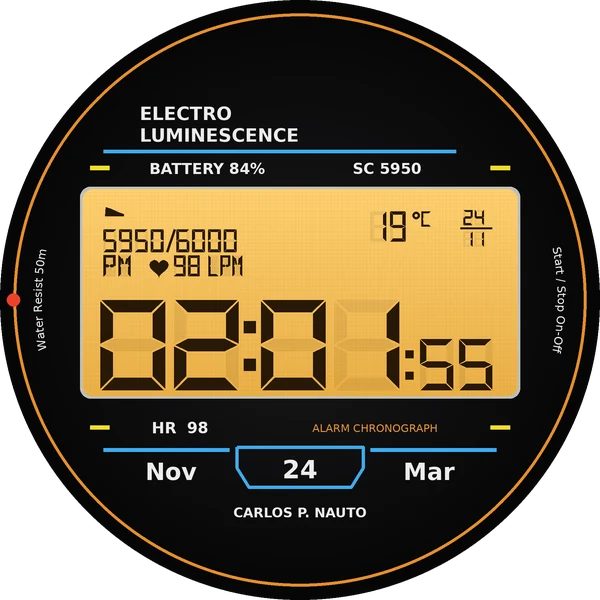
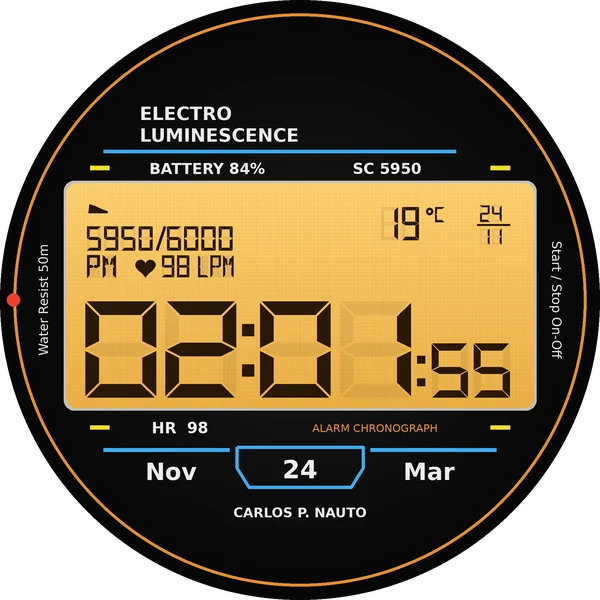
Electro: textos de los costados rectos y más visibles, pantalla más alta y más ancha con la hora más grande
Claude-Session: https://claude.ai/code/session_01RTdv2VrACuR4VFWJLA57hx

Changed region(s): [[0.06, 0.3, 0.96, 0.69]]

diff --git a/android/esferas-de-reloj/electro/src/main/java/cl/carlospnauto/esfera/FaceService.kt b/android/esferas-de-reloj/electro/src/main/java/cl/carlospnauto/esfera/FaceService.kt
@@ -228,7 +228,7 @@ class ElectroRenderer(
         val r = min(b.width(), b.height()) / 2f
         val cx = b.exactCenterX()
         val cy = b.exactCenterY()
-        return RectF(cx - 0.725f * r, cy - 0.37f * r, cx + 0.725f * r, cy + 0.32f * r)
+        return RectF(cx - 0.78f * r, cy - 0.39f * r, cx + 0.78f * r, cy + 0.36f * r)
     }
 
     private fun a(c: Int, alpha: Int) = Color.argb(alpha, Color.red(c), Color.green(c), Color.blue(c))
@@ -243,6 +243,14 @@ class ElectroRenderer(
         text.textScaleX = scaleX
         canvas.drawText(s, x, y, text)
         text.textScaleX = 1f
+    }
+
+    /** Texto recto girado (deg −90: se lee de abajo hacia arriba; 90: de arriba hacia abajo) */
+    private fun vertical(canvas: Canvas, s: String, x: Float, y: Float, deg: Float, size: Float, color: Int) {
+        canvas.save()
+        canvas.rotate(deg, x, y)
+        write(canvas, s, x, y + size * 0.35f, size, color, medium, Paint.Align.CENTER)
+        canvas.restore()
     }
 
     private fun arcText(canvas: Canvas, s: String, cx: Float, cy: Float, rad: Float, start: Float, sweep: Float, size: Float, color: Int) {
@@ -303,8 +311,9 @@ class ElectroRenderer(
             write(canvas, "SC ${steps ?: "--"}", X(0.29f), Y(-0.42f), r * 0.056f, white, bold, Paint.Align.CENTER, 1.05f)
 
             // Textos de los costados (siguen la curva)
-            arcText(canvas, "Water Resist 50m", cx, cy, r * 0.86f, 145f, 70f, r * 0.042f, white)
-            arcText(canvas, "Start / Stop On-Off", cx, cy, r * 0.86f, -35f, 70f, r * 0.042f, white)
+            // Textos de los costados, rectos (como la foto)
+            vertical(canvas, "Water Resist 50m", X(-0.855f), cy, -90f, r * 0.048f, white)
+            vertical(canvas, "Start / Stop On-Off", X(0.855f), cy, 90f, r * 0.048f, white)
 
             // ===== Abajo: ritmo, mes, día y la marca =====
             val hr = complications.textOf(HEART, context.resources)?.filter { it.isDigit() }?.takeIf { it.isNotEmpty() }
@@ -388,12 +397,12 @@ class ElectroRenderer(
         if (!simple) {
             // Línea de arriba: pasos con la meta, o el próximo evento
             if (Choices.value(context, TOPLINE) == 0) {
-                drawShoe(canvas, X(-0.62f), Y(0.075f), r * 0.03f, ink)
+                drawShoe(canvas, X(-0.675f), Y(0.085f), r * 0.03f, ink)
                 val steps = complications.textOf(STEPS, context.resources)?.filter { it.isDigit() } ?: "--"
                 val goal = Choices.value(context, GOAL).toString()
-                digits(canvas, "$steps/$goal", X(-0.655f), Y(0.135f), r * 0.042f, r * 0.075f, ink, ghost)
+                digits(canvas, "$steps/$goal", X(-0.71f), Y(0.145f), r * 0.046f, r * 0.08f, ink, ghost)
             } else {
-                drawCalendar(canvas, X(-0.62f), Y(0.075f), r * 0.03f, ink)
+                drawCalendar(canvas, X(-0.675f), Y(0.085f), r * 0.03f, ink)
                 val ev = complications.textOf(EVENT, context.resources)
                 val title = complications.titleOf(EVENT, context.resources)
                 val line = plain(when {
@@ -401,49 +410,49 @@ class ElectroRenderer(
                     title != null -> "$title $ev"
                     else -> ev
                 }).filter { it.isLetterOrDigit() || it == ' ' || it == ':' || it == '-' }.take(15)
-                Lcd.text14(canvas, line, X(-0.655f), Y(0.135f), r * 0.034f, r * 0.068f, r * 0.008f, ink, ghost)
+                Lcd.text14(canvas, line, X(-0.71f), Y(0.145f), r * 0.037f, r * 0.074f, r * 0.008f, ink, ghost)
             }
             // Clima y fecha a la derecha
             val temp = complications.textOf(WEATHER, context.resources)?.filter { it.isDigit() || it == '-' }?.takeIf { it.isNotEmpty() } ?: "--"
-            digits(canvas, temp.takeLast(3), X(0.235f), Y(0.075f), r * 0.052f, r * 0.10f, ink, ghost)
-            val tw = digitsWidth(temp.takeLast(3), r * 0.052f)
+            digits(canvas, temp.takeLast(3), X(0.27f), Y(0.08f), r * 0.056f, r * 0.11f, ink, ghost)
+            val tw = digitsWidth(temp.takeLast(3), r * 0.056f)
             stroke.color = ink
             stroke.strokeWidth = r * 0.008f
-            canvas.drawCircle(X(0.235f) + tw + r * 0.022f, Y(0.088f), r * 0.012f, stroke)
-            Lcd.text14(canvas, "C", X(0.235f) + tw + r * 0.04f, Y(0.075f), r * 0.03f, r * 0.05f, 0f, ink, 0)
+            canvas.drawCircle(X(0.27f) + tw + r * 0.022f, Y(0.095f), r * 0.012f, stroke)
+            Lcd.text14(canvas, "C", X(0.27f) + tw + r * 0.04f, Y(0.08f), r * 0.03f, r * 0.05f, 0f, ink, 0)
             val dd = "%02d".format(t.dayOfMonth)
             val mm = "%02d".format(t.monthValue)
-            digits(canvas, dd, X(0.545f), Y(0.07f), r * 0.03f, r * 0.05f, ink, ghost)
+            digits(canvas, dd, X(0.60f), Y(0.075f), r * 0.032f, r * 0.054f, ink, ghost)
             fill.color = ink
-            canvas.drawRect(X(0.535f), Y(0.128f), X(0.64f), Y(0.134f), fill)
-            digits(canvas, mm, X(0.545f), Y(0.142f), r * 0.03f, r * 0.05f, ink, ghost)
+            canvas.drawRect(X(0.59f), Y(0.137f), X(0.70f), Y(0.143f), fill)
+            digits(canvas, mm, X(0.60f), Y(0.152f), r * 0.032f, r * 0.054f, ink, ghost)
 
             // Segunda línea: AM/PM, corazón y ritmo
-            if (!is24) Lcd.text14(canvas, if (t.hour < 12) "AM" else "PM", X(-0.655f), Y(0.22f), r * 0.04f, r * 0.072f, r * 0.01f, ink, ghost)
-            drawHeart(canvas, X(-0.47f), Y(0.258f), r * 0.03f, ink)
+            if (!is24) Lcd.text14(canvas, if (t.hour < 12) "AM" else "PM", X(-0.71f), Y(0.24f), r * 0.043f, r * 0.076f, r * 0.01f, ink, ghost)
+            drawHeart(canvas, X(-0.515f), Y(0.278f), r * 0.032f, ink)
             val hr = complications.textOf(HEART, context.resources)?.filter { it.isDigit() }?.takeIf { it.isNotEmpty() }
                 ?: heart.bpm.takeIf { it > 0 }?.toString() ?: "--"
-            digits(canvas, hr, X(-0.42f), Y(0.222f), r * 0.038f, r * 0.068f, ink, ghost)
-            Lcd.text14(canvas, "LPM", X(-0.42f) + digitsWidth(hr, r * 0.038f) + r * 0.03f, Y(0.222f), r * 0.032f, r * 0.068f, r * 0.008f, ink, ghost)
+            digits(canvas, hr, X(-0.46f), Y(0.242f), r * 0.04f, r * 0.072f, ink, ghost)
+            Lcd.text14(canvas, "LPM", X(-0.46f) + digitsWidth(hr, r * 0.04f) + r * 0.03f, Y(0.242f), r * 0.034f, r * 0.072f, r * 0.008f, ink, ghost)
         }
 
         // Hora grande con segundos
         val h = if (is24) "%02d".format(t.hour) else (if (t.hour % 12 == 0) 12 else t.hour % 12).let { "%02d".format(it) }
         val m = "%02d".format(t.minute)
-        val dh = r * 0.30f
-        val dw = r * 0.215f
-        val gap = r * 0.03f
-        val colon = r * 0.075f
-        val top = Y(0.37f)
-        var x = X(-0.665f)
+        val dh = r * 0.32f
+        val dw = r * 0.235f
+        val gap = r * 0.032f
+        val colon = r * 0.08f
+        val top = Y(0.395f)
+        var x = X(-0.715f)
         seg(canvas, h[0], x, top, dw, dh, ink, ghost); x += dw + gap
         seg(canvas, h[1], x, top, dw, dh, ink, ghost); x += dw
         colonDots(canvas, x + colon / 2, top, dh, r * 0.02f, ink); x += colon
         seg(canvas, m[0], x, top, dw, dh, ink, ghost); x += dw + gap
         seg(canvas, m[1], x, top, dw, dh, ink, ghost); x += dw
         // Segundos: en bajo consumo quedan en 00 y vuelven a correr al encender la pantalla
-        val sh = r * 0.17f
-        val sw = r * 0.11f
+        val sh = r * 0.18f
+        val sw = r * 0.12f
         val sTop = top + dh - sh
         colonDots(canvas, x + r * 0.035f, sTop, sh, r * 0.013f, ink)
         x += r * 0.07f
